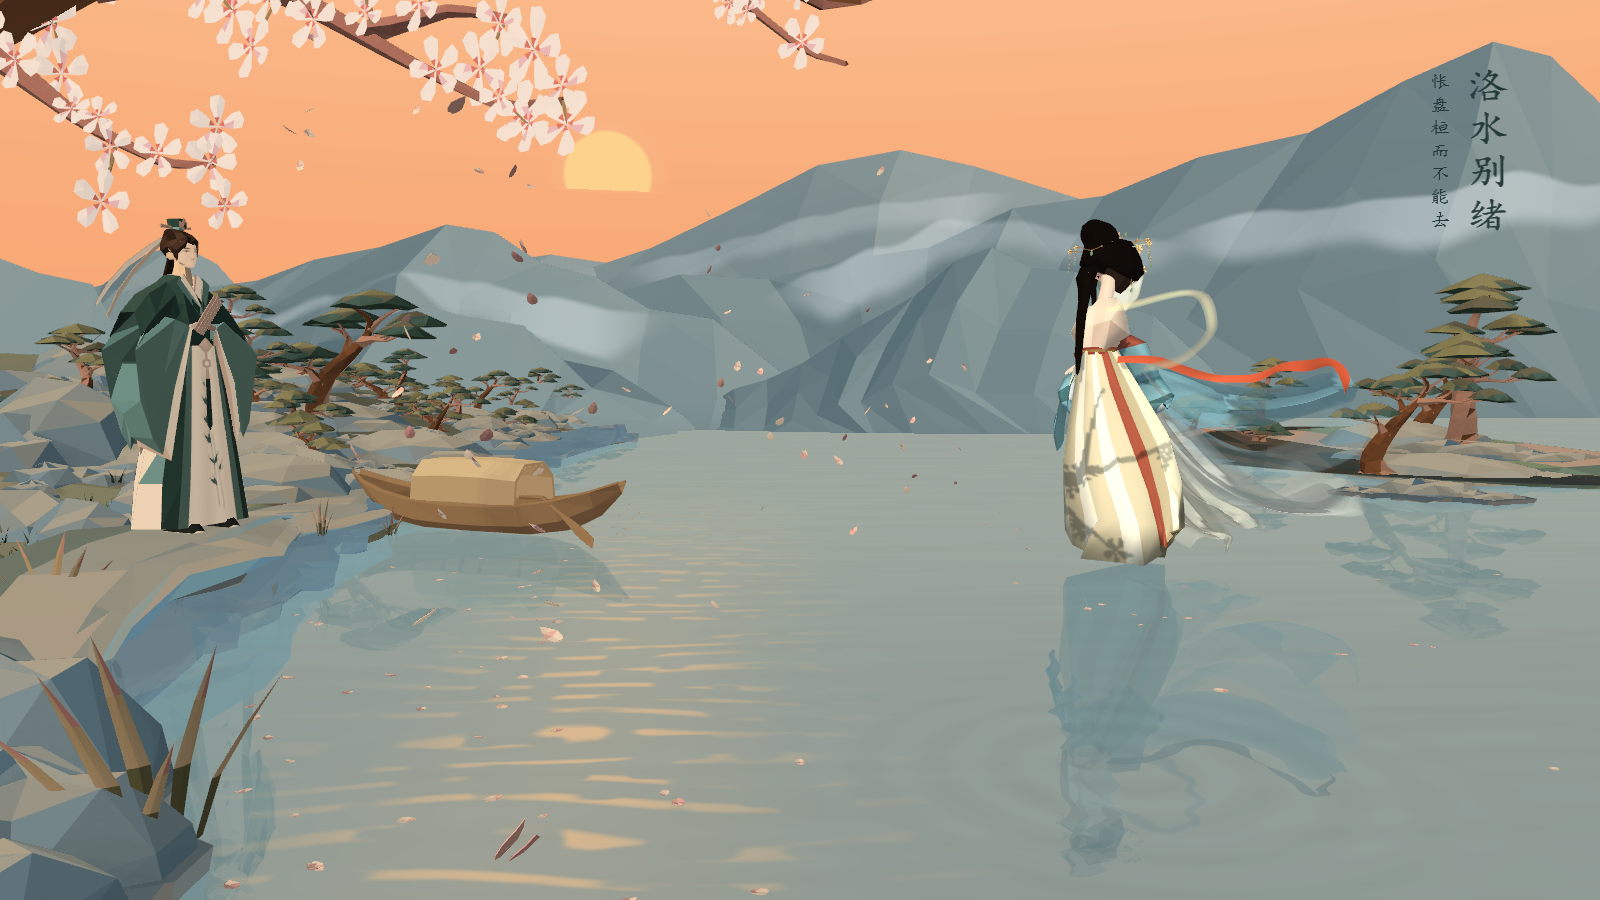
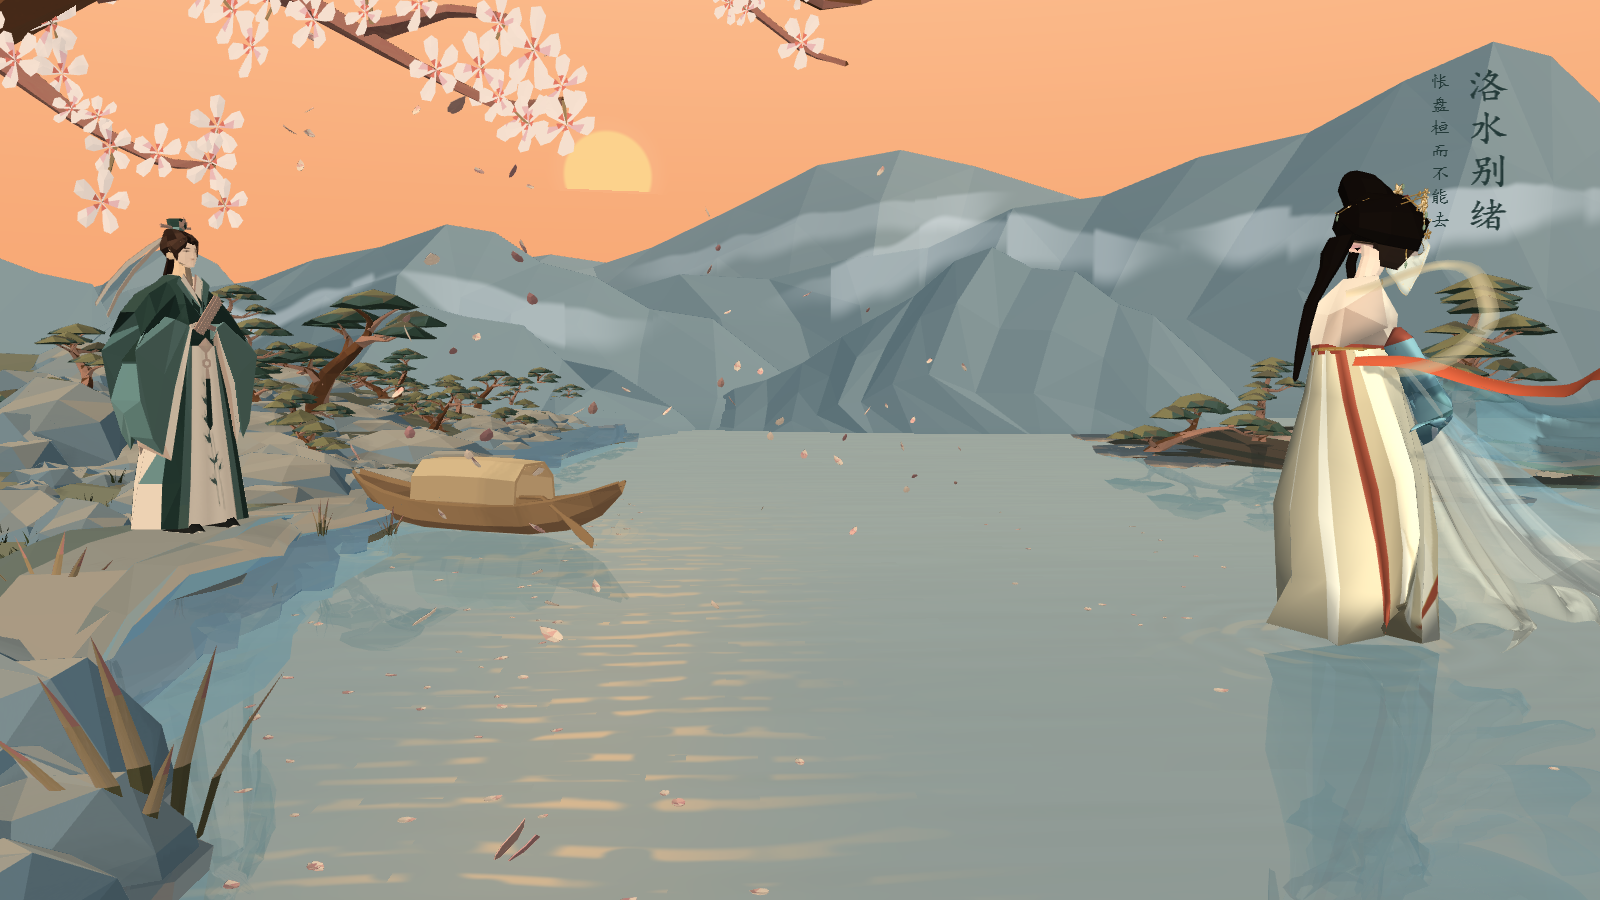
修正洛神离去的位移表现，并让水面波纹跟随动画姿态

diff --git a/场景工程_美术重制/scene_motion.h b/场景工程_美术重制/scene_motion.h
@@ -19,17 +19,20 @@ inline constexpr double kStillEnd = 4.0;       // 起步前的停顿
 inline constexpr double kTravelEnd = 34.0;     // 到达终点
 inline constexpr double kHoldEnd = 45.0;       // 结尾停留到 45 秒
 
-// 三次 Bézier 控制点。起点与 scene_layout::luoshenPosition 完全一致，
-// 终点落在右前方开阔水面，不越过右岸，也不进入中央叙事留白。
+// 三次 Bézier 控制点。起点与 scene_layout::luoshenPosition 完全一致。
+// 路线沿主镜头的屏幕右方展开、只略微向纵深后退：这样位移在画面上是
+// 可见的横向移动，而不是"原地转身、只剩缩小"的观感。终点仍在开阔水面内，
+// 不越过右岸，也不进入中央叙事留白。
 inline constexpr glm::vec3 kP0(1.000f, .045f, -1.200f);
-inline constexpr glm::vec3 kP1(1.550f, .045f, -2.250f);
-inline constexpr glm::vec3 kP2(2.900f, .045f, -4.900f);
-inline constexpr glm::vec3 kP3(4.050f, .045f, -6.100f);
+inline constexpr glm::vec3 kP1(2.300f, .045f, -1.700f);
+inline constexpr glm::vec3 kP2(3.400f, .045f, -2.450f);
+inline constexpr glm::vec3 kP3(4.450f, .045f, -2.800f);
 
 // 朝向（度，绕 Y 轴）。模型默认面向 +Z；起点使用静态站位的 -25°，
-// 离去时缓慢转向路线切线方向，观众先看到回望，再看到背影远去。
+// 离去时与曲线参数同步转到路线末端的切线方向（约 108°），
+// 也就是"转身、朝右前方走去"，中途不会停在原地打转。
 inline constexpr float kStartYaw = -25.0f;
-inline constexpr float kEndYaw = 150.0f;
+inline constexpr float kEndYaw = 108.0f;
 
 // 小舟微动参数：都以 0 时刻为静止基准，保证重置后与布局一致。
 inline constexpr float kBoatHeave = .018f;      // 升沉幅度（米）

diff --git a/场景工程_美术重制/main.cpp b/场景工程_美术重制/main.cpp
@@ -802,7 +802,20 @@ int wmain(int argc,wchar_t** argv){
             shadows.begin();
             drawCasters(shadows.lightView);
             drawMountains(shadows.lightView);
+            // 水面波纹、脚点涟漪和尾迹由 shadow_map 按布局姿态取脚点。
+            // 这里在计算这些 uniform 之前临时写入本帧的叙事姿态，让水波跟着
+            // 洛神和小舟走；算完立即还原，布局数据和保存的布局都不受影响。
+            auto& luoshenPose=layoutEditor.items[luoshenItem].pose;
+            auto& boatPose=layoutEditor.items[boatItem].pose;
+            const glm::vec3 savedLuoshenPosition=luoshenPose.position;
+            const float savedLuoshenYaw=luoshenPose.yaw;
+            const glm::vec3 savedBoatPosition=boatPose.position;
+            const float savedBoatYaw=boatPose.yaw;
+            if(luoshenMotion){luoshenPose.position=goddess;luoshenPose.yaw=farewell.yaw;}
+            if(boatMotionActive){boatPose.position.y+=boatMotion.heave;boatPose.yaw+=boatMotion.yaw;}
             shadows.end(w,h,view,!noShadows);
+            luoshenPose.position=savedLuoshenPosition;luoshenPose.yaw=savedLuoshenYaw;
+            boatPose.position=savedBoatPosition;boatPose.yaw=savedBoatYaw;
             glMatrixMode(GL_PROJECTION);glLoadMatrixf(glm::value_ptr(projection));
             pUseProgram(program);uniform1f(timeLocation,static_cast<float>(animationTime));
             auto worldUp=glm::vec3(view*glm::vec4(0,1,0,0));pUniform3f(worldUpLocation,worldUp.x,worldUp.y,worldUp.z);uniform1f(cameraHeightLocation,eye.y);

diff --git a/场景工程_美术重制/mesh_tests.cpp b/场景工程_美术重制/mesh_tests.cpp
@@ -15,7 +15,7 @@ void require(bool ok,const char* message) { if(!ok) throw std::runtime_error(mes
 int wmain(int argc,wchar_t** argv) {
     try {
         require(glm::length(farewellPosition(0)-glm::vec3(1,.045f,-1.2f))<1e-5f,"Bezier start");
-        require(glm::length(farewellPosition(45)-glm::vec3(4.05f,.045f,-6.1f))<1e-5f,"Bezier end");
+        require(glm::length(farewellPosition(45)-glm::vec3(4.45f,.045f,-2.8f))<1e-5f,"Bezier end");
         require(glm::length(farewellPosition(90)-farewellPosition(45))<1e-5f,"farewell must hold endpoint");
         require(glm::length(farewellPosition(-1)-farewellPosition(0))<1e-5f,"negative time clamps");
         require(farewellPosition(22.5).x>1.5f && farewellPosition(22.5).x<4,"Bezier midpoint advances");

diff --git a/docs/narrative-animation.md b/docs/narrative-animation.md
@@ -20,7 +20,7 @@ v(u) = 加速段 / 匀速段 / 减速段，两端速度为 0
 曲线参数 = ∫v du / ∫v du|0..1
 ```
 
-这样既保留“起步前的停顿”和“到点停稳”，又不会让 45 秒演示的前十几秒几乎看不出移动。实际速度在 18–23 秒达到最大，约 `0.256` 世界单位/秒。
+这样既保留“起步前的停顿”和“到点停稳”，又不会让 45 秒演示的前十几秒几乎看不出移动。起步后速度基本稳定在 `0.13–0.16` 世界单位/秒之间（8 秒前后最快，约 `0.162`）。
 
 ## 2. 洛神离去
 
@@ -29,15 +29,15 @@ v(u) = 加速段 / 匀速段 / 减速段，两端速度为 0
 | 控制点 | 坐标 (x, y, z) | 说明 |
 |---|---|---|
 | P0 | `(1.000, 0.045, -1.200)` | 与 `scene_layout::luoshenPosition` 完全一致 |
-| P1 | `(1.550, 0.045, -2.250)` | 先离开镜头方向，避免起步时横向滑动 |
-| P2 | `(2.900, 0.045, -4.900)` | 向右前方展开 |
-| P3 | `(4.050, 0.045, -6.100)` | 右前方开阔水面，不越过右岸，不进入中央叙事留白 |
+| P1 | `(2.300, 0.045, -1.700)` | 先向画面右侧展开，让位移在镜头里可见 |
+| P2 | `(3.400, 0.045, -2.450)` | 继续向右前方，只略微后退 |
+| P3 | `(4.450, 0.045, -2.800)` | 右前方开阔水面，仍在画面内，不越过右岸 |
 
-曲线长度约 `5.79` 世界单位。主镜头下起点位于屏幕约 `(993, 751)`，终点约 `(1189, 561)`，人物高度从约 677 像素缩小到约 345 像素，形成“远去”的透视变化。
+曲线长度约 `3.81` 世界单位。主镜头下起点位于屏幕约 `(993, 751)`，终点约 `(1450, 654)`，人物高度从约 677 像素缩小到约 513 像素：既有明确的横向位移，也保留一点远去感。
 
 ### 2.2 朝向
 
-模型默认面向 `+Z`，初始站位 `yaw = -25°`。离去时朝向与曲线参数同步插值到 `150°`，即角色缓慢转身、背对镜头远去。转向与位移共用同一条缓动曲线，所以起步和停止时角速度也为 0；0.01 秒采样下的最大角度步进约 `0.069°`，不存在跳变。
+模型默认面向 `+Z`，初始站位 `yaw = -25°`。离去时朝向与曲线参数同步插值到 `108°`，即角色缓慢转身、朝右前方走去，不再原地打转。转向与位移共用同一条缓动曲线，所以起步和停止时角速度也为 0；0.01 秒采样下的最大角度步进约 `0.052°`，不存在跳变。
 
 ### 2.3 路线约束
 
